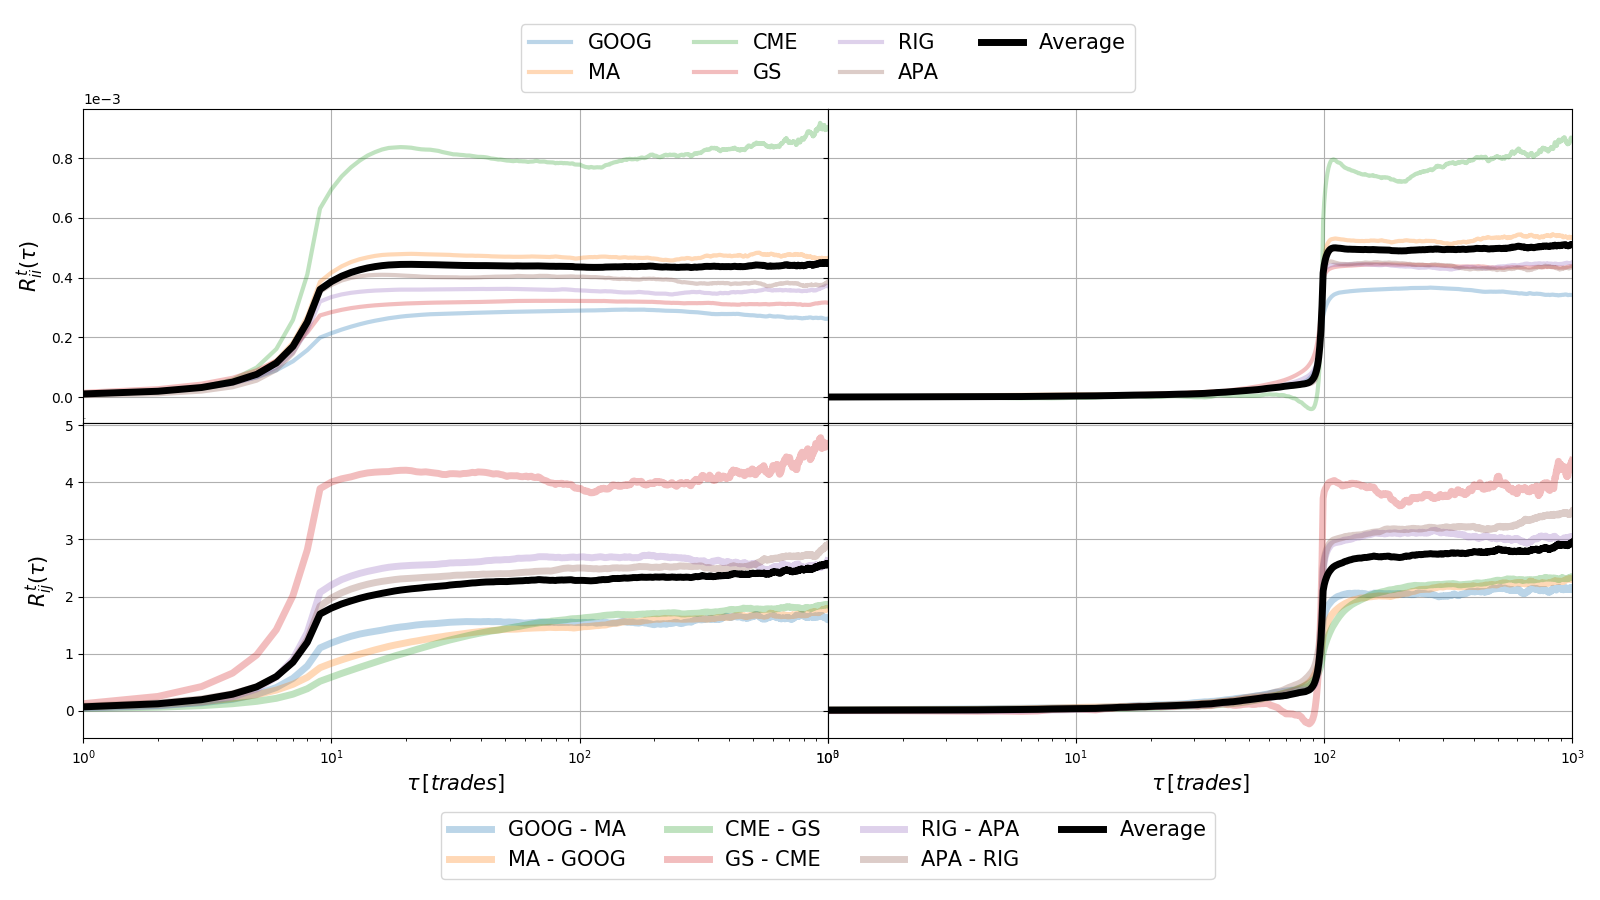
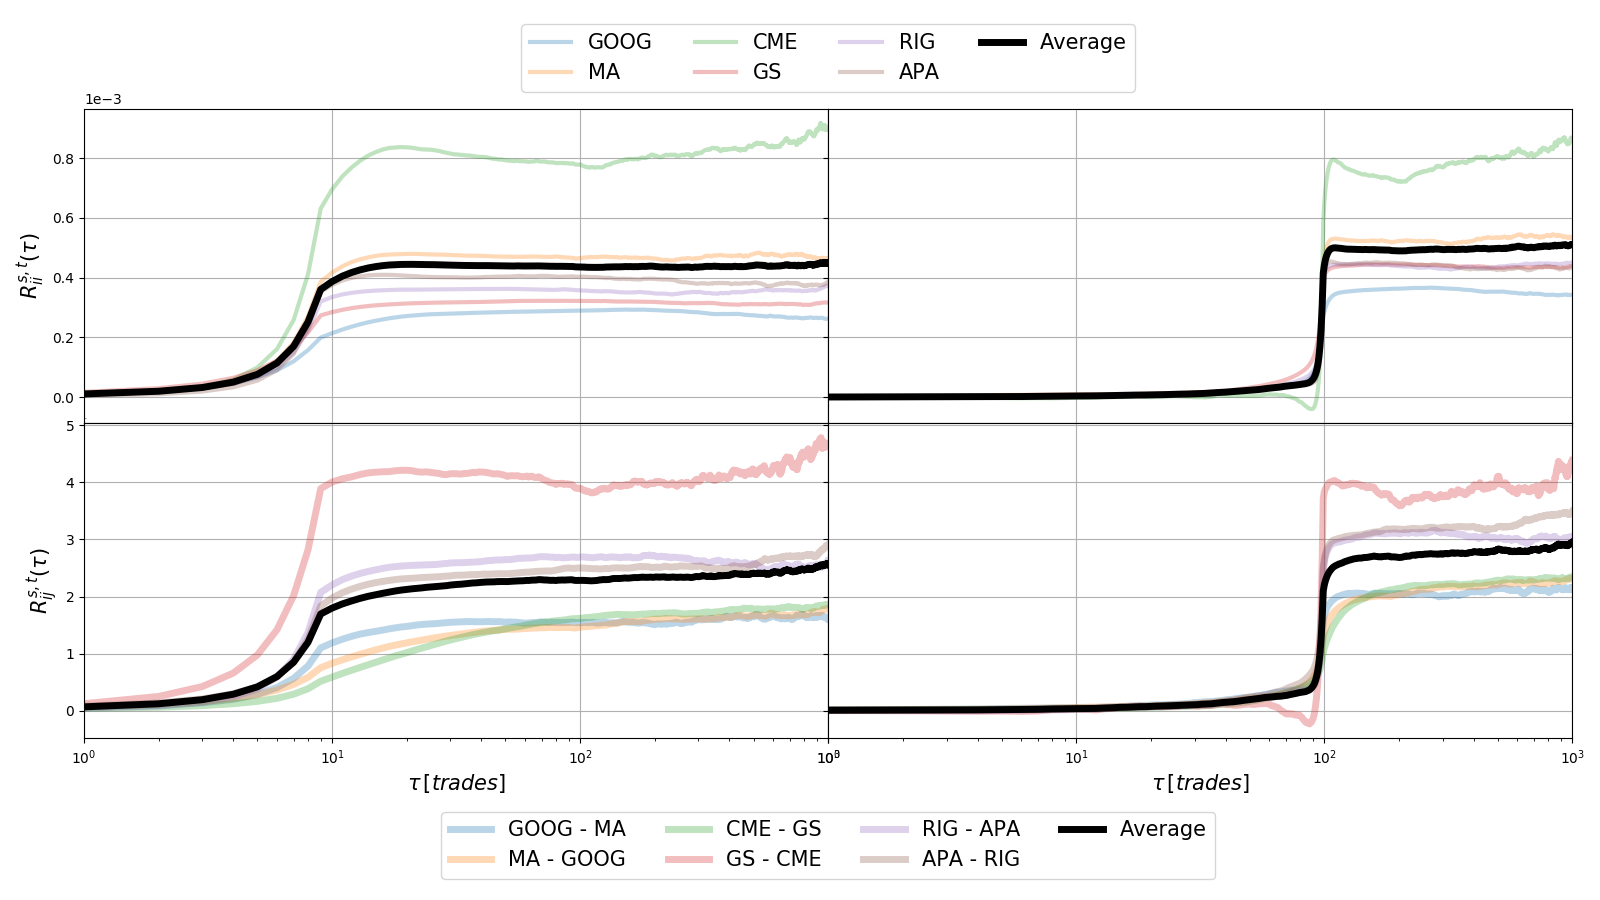
Update figures paper

diff --git a/paper/algorithms/04_shift.py b/paper/algorithms/04_shift.py
@@ -299,11 +299,11 @@ def taq_physical_scale_shift_year_avg_plot(ticker_i, ticker_j, year, taus):
     """Plots the shift in self- and cross-response for a year in second
        physical scale.
 
-    :param ticker_i: string of the abbreviation of the stock to be analized
+    :param ticker_i: string of the abbreviation of the stock to be analyzed
      (i.e. 'AAPL')
-    :param ticker_j: string of the abbreviation of the stock to be analized
+    :param ticker_j: string of the abbreviation of the stock to be analyzed
      (i.e. 'AAPL')
-    :param year: string of the year to be analized (i.e '2008')
+    :param year: string of the year to be analyzed (i.e '2008')
     :param taus: list of integers greater than zero (i.e. [1, 10, 50]).
     :return: None -- The function saves the plot in a file and does not return
      a value.
@@ -644,7 +644,7 @@ def taq_trade_scale_responses_year_avg_shift_plot(tickers, sectors, year,
                      label=f'Average')
         ax1.legend(loc='upper center', bbox_to_anchor=(1.0, 1.3), ncol=4,
                    fontsize=15)
-        ax1.set_ylabel(r'$R^{t}_{ii}(\tau)$', fontsize=15)
+        ax1.set_ylabel(r'$R^{s,t}_{ii}(\tau)$', fontsize=15)
         ax1.set_xlim(1, 1000)
         # plt.ylim(13 * 10 ** -5, 16 * 10 ** -5)
         ax1.tick_params(axis='y', labelsize=10)
@@ -663,7 +663,7 @@ def taq_trade_scale_responses_year_avg_shift_plot(tickers, sectors, year,
         ax3.legend(loc='upper center', bbox_to_anchor=(1.0, -0.2), ncol=4,
                    fontsize=15)
         ax3.set_xlabel(r'$\tau \, [trades]$', fontsize=15)
-        ax3.set_ylabel(r'$R^{t}_{ij}(\tau)$', fontsize=15)
+        ax3.set_ylabel(r'$R^{s,t}_{ij}(\tau)$', fontsize=15)
         ax3.set_xlim(1, 1000)
         # plt.ylim(13 * 10 ** -5, 16 * 10 ** -5)
         ax3.tick_params(axis='x', labelsize=10)
@@ -785,7 +785,7 @@ def taq_physical_scale_responses_year_avg_shift_plot(tickers, sectors, year,
                      label=f'Average')
         ax1.legend(loc='upper center', bbox_to_anchor=(1.0, 1.3), ncol=4,
                    fontsize=15)
-        ax1.set_ylabel(r'$R^{p}_{ii}(\tau)$', fontsize=15)
+        ax1.set_ylabel(r'$R^{s,p}_{ii}(\tau)$', fontsize=15)
         ax1.set_xlim(1, 1000)
         # plt.ylim(13 * 10 ** -5, 16 * 10 ** -5)
         ax1.tick_params(axis='y', labelsize=10)
@@ -804,7 +804,7 @@ def taq_physical_scale_responses_year_avg_shift_plot(tickers, sectors, year,
         ax3.legend(loc='upper center', bbox_to_anchor=(1.0, -0.2), ncol=4,
                    fontsize=15)
         ax3.set_xlabel(r'$\tau \, [s]$', fontsize=15)
-        ax3.set_ylabel(r'$R^{p}_{ij}(\tau)$', fontsize=15)
+        ax3.set_ylabel(r'$R^{s,p}_{ij}(\tau)$', fontsize=15)
         ax3.set_xlim(1, 1000)
         # plt.ylim(13 * 10 ** -5, 16 * 10 ** -5)
         ax3.tick_params(axis='x', labelsize=10)

diff --git a/paper/algorithms/05_short_long.py b/paper/algorithms/05_short_long.py
@@ -79,7 +79,7 @@ def taq_responses_physical_short_long_year_plot(ticker_i, ticker_j, year, tau,
             ax1.legend(loc='upper center', bbox_to_anchor=(0.5, -0.2), ncol=3,
                        fontsize=15)
             ax1.set_xlabel(r'$\tau \, [s]$', fontsize=15)
-            ax1.set_ylabel(r'$R^{sl}_{ii}(\tau)$', fontsize=15)
+            ax1.set_ylabel(r'$R^{sl,p}_{ii}(\tau)$', fontsize=15)
             ax1.tick_params(axis='x', labelsize=10)
             ax1.tick_params(axis='y', labelsize=10)
             ax1.set_xlim(1, 1000)
@@ -115,7 +115,7 @@ def taq_responses_physical_short_long_year_plot(ticker_i, ticker_j, year, tau,
             ax2.legend(loc='upper center', bbox_to_anchor=(0.5, -0.2), ncol=3,
                        fontsize=15)
             ax2.set_xlabel(r'$\tau \, [s]$', fontsize=15)
-            ax2.set_ylabel(r'$R^{sl}_{ij}(\tau)$', fontsize=15)
+            ax2.set_ylabel(r'$R^{sl,p}_{ij}(\tau)$', fontsize=15)
             ax2.tick_params(axis='x', labelsize=10)
             ax2.tick_params(axis='y', labelsize=10)
             ax2.set_xlim(1, 1000)
